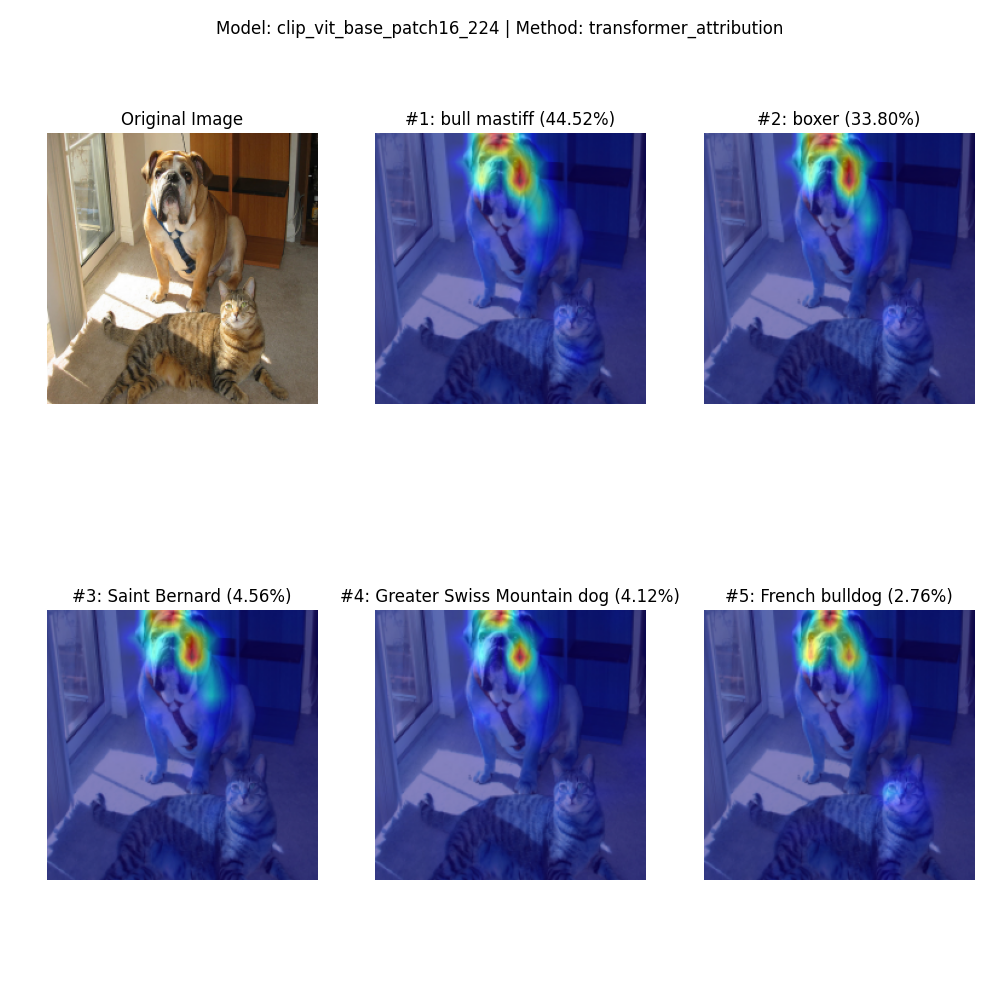
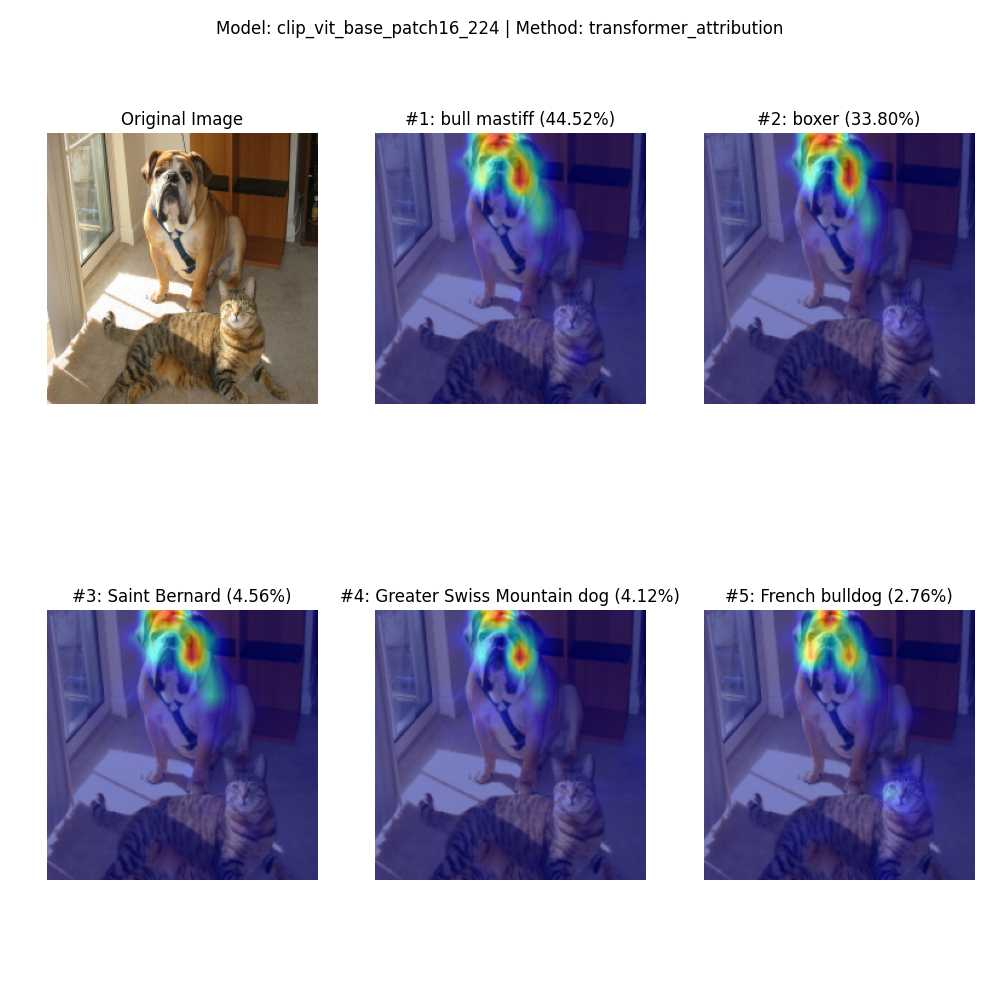
fix plot color bug

diff --git a/main.py b/main.py
@@ -76,6 +76,7 @@ def show_cam_on_image(img, mask):
     :param mask: Description
     """
     heatmap = cv2.applyColorMap(np.uint8(255 * mask), cv2.COLORMAP_JET)
+    heatmap = cv2.cvtColor(heatmap, cv2.COLOR_BGR2RGB)  # Convert to RGB
     heatmap = np.float32(heatmap) / 255
     cam = heatmap + np.float32(img)
     cam = cam / np.max(cam)
@@ -125,7 +126,6 @@ def generate_visualization(
     ) / (image_transformer_attribution.max() - image_transformer_attribution.min())
     vis = show_cam_on_image(image_transformer_attribution, transformer_attribution)
     vis = np.uint8(255 * vis)
-    vis = cv2.cvtColor(np.array(vis), cv2.COLOR_RGB2BGR)
     return vis
 
 

diff --git a/baselines/ViT/ViT_LRP.py b/baselines/ViT/ViT_LRP.py
@@ -533,7 +533,7 @@ def _conv_filter(state_dict, patch_size=16):
     return out_dict
 
 
-def vit_base_patch16_224(pretrained=False, num_classes=1000, checkpoint_path=None, **kwargs):
+def vit_base_patch16_224(pretrained=True, num_classes=1000, checkpoint_path=None, **kwargs):
     # checkpoint_path is ignored - ViT loads from timm pretrained weights
     model = VisionTransformer(
         patch_size=16,

diff --git a/README.md b/README.md
@@ -29,10 +29,10 @@ This implementation uses the **approximated LRP method** from [Hila Chefer's Tra
 
 | Model | Pretraining | Head | Classes |
 |-------|-------------|------|---------|
-| `vit_base_patch16_224` | Supervised (ImageNet) | Pretrained | 1000 |
-| `dinov2_base_imagenet1k_1layer_lrp` | DINOv2 self-supervised | Pretrained | 1000 |
-| `mae_vit_base_patch16_224` | MAE self-supervised | Linear probe | 300 |
-| `clip_vit_base_patch16_224` | CLIP vision-language | Linear probe | 300 |
+| `vit_base_patch16_224` | Supervised (ImageNet) | Linear probe | 1000 |
+| `dinov2_base_imagenet1k_1layer_lrp` | DINOv2 self-supervised | Linear probe | 1000 |
+| `mae_vit_base_patch16_224` | MAE self-supervised | Linear probe (by me)| 300 |
+| `clip_vit_base_patch16_224` | CLIP vision-language | Linear probe (by me) | 300 |
 
 ## Contribution
 
@@ -90,7 +90,7 @@ uv run python main.py --model mae_vit_base_patch16_224 --image input_images/catd
 
 - **2025-01-22** - Added CLIP ViT-B/16 support (linear probe on ImageNet first 300 classes)
 - **2025-01-20** - Added MAE ViT-B/16 support (linear probe on ImageNet first 300 classes)
-- **2025-01-16** - Added DINOv2 ViT-B/14 support. Note that the ViT backbone was trained on 518*518 image size with patch size 14*14. However, the linear probing was done on ImageNet-1K dataset with 224*224 inputs.
+- **2025-01-16** - Added DINOv2 ViT-B/14 support. Note that the ViT backbone was trained on 518 image size with patch size 14. However, the linear probing was done on ImageNet-1K dataset with 224 inputs.
 
 ## References
 
